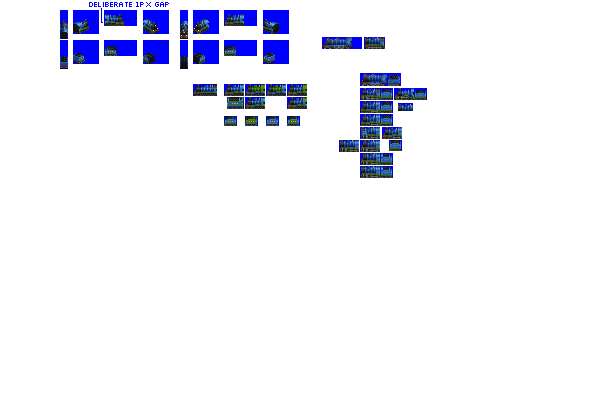
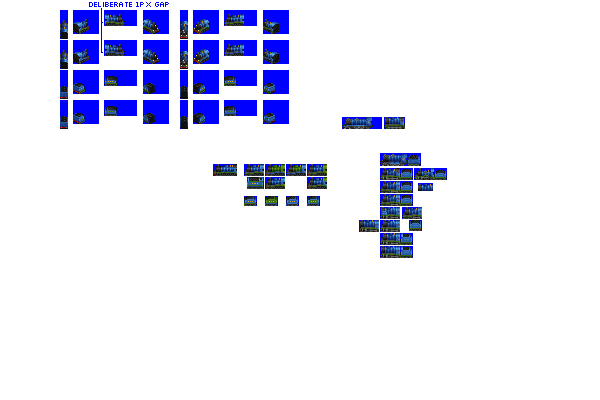
Change: additional banger blue livery for Carrack

diff --git a/src/vehicles/carrack.py b/src/vehicles/carrack.py
@@ -15,9 +15,8 @@ def main(roster_id):
         tractive_effort_coefficient=0.18,
         gen=2,
         intro_year_offset=-3,  # introduce earlier than gen epoch by design
-        additional_liveries=[],
+        additional_liveries=["BANGER_BLUE"],
         sprites_complete=True,
-        sprites_additional_liveries_needed=True, # banger blue?
     )
 
     consist.add_unit(type=SteamEngineUnit, weight=60, vehicle_length=5, spriterow_num=0)
